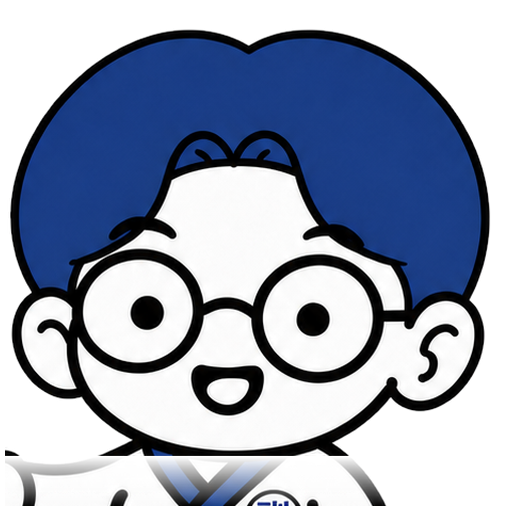
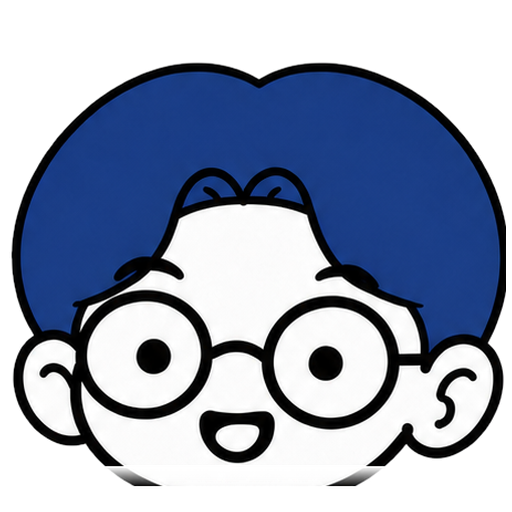
히든 검은용 확률 1/1,000 · 헤더용 마스코트 얼굴 크롭에서 도복·지팡이 제거(머리만)

diff --git a/tools/make_mascot.py b/tools/make_mascot.py
@@ -33,7 +33,7 @@ WHITE = (255, 255, 255)
 # 원본 1254×1254 기준 자리 (다른 크기 원본이면 비율로 맞춘다)
 BASE = 1254
 ART_BOX = (88, 88, 1172, 1172)      # 마스코트 + 주변 칠성구 전체
-FACE_BOX = (400, 292, 870, 762)     # 얼굴 (머리카락·안경·입) — 주변 성구·지팡이는 빼고
+FACE_BOX = (399, 280, 852, 698)     # 얼굴 (머리카락·안경·입·귀) — 목 아래 도복은 빼고
 
 
 def cutout(path: str) -> Image.Image:
@@ -115,11 +115,12 @@ def main() -> None:
     squared_art.alpha_composite(art_pad, ((side - art_pad.width) // 2, (side - art_pad.height) // 2))
     fit(squared_art, 800, 0.012).save(os.path.join(images, 'mascot-full.png'))
 
-    # 얼굴 — 머리 부분만. 아래쪽은 직선으로 잘린 티가 나지 않게 살짝 부드럽게 지운다
+    # 얼굴 — 머리 부분만. 목 아래 도복·왼손 지팡이는 아예 남기지 않고,
+    # 아래쪽은 턱선이 부드럽게 사라지게 살짝 흐려서 마무리한다
     face_box = scaled_box(FACE_BOX, full.width, full.height)
     part = character_only(full).crop(face_box)
     fp = np.array(part)
-    fade = max(1, int(part.height * 0.10))
+    fade = max(1, int(part.height * 0.045))
     for i in range(fade):
         row = part.height - fade + i
         fp[row, :, 3] = (fp[row, :, 3].astype(np.int32) * i // fade).astype(np.uint8)

diff --git a/README.md b/README.md
@@ -83,7 +83,7 @@ npm run preview    # 빌드 결과 확인
 | 파일 | 쓰이는 곳 |
 |---|---|
 | `public/images/mascot-full.png` (800×800, 투명) | 첫 화면(제목 옆), 타이머, 결과 화면 — **중앙 가르마·동그란 안경·訓 도복·근두운·주변 무지개 칠성구** 마스코트 |
-| `public/images/mascot-face.png` (512×512, 투명) | 관리자·학생 화면 상단의 작은 얼굴 (44px 자리) |
+| `public/images/mascot-face.png` (512×512, 투명) | 관리자·학생 화면 상단의 작은 얼굴 (44px 자리) — **머리(얼굴·귀)만** 나오게 잘라 둔 크롭(목 아래 도복·왼손 지팡이는 넣지 않는다, 턱선은 살짝 흐려 마무리) |
 | `public/images/hunsu-logo.png` (512×512, 투명) | 관리자 로그인 화면, 공유 미리보기 |
 | `public/images/hunsu-badge.png` (256×256, 원형) | **모든 화면 맨 아래에만** 작게 + "훈수학학원" |
 | `public/icons/icon-192.png`, `icon-512.png`, `icon-maskable-512.png`, `apple-touch-icon.png`(180×180) | 홈 화면 아이콘 |
@@ -162,10 +162,10 @@ python3 tools/make_color_dragons.py
   - **교환권은 학원에서 실제로 준 뒤 관리자가 사용 처리**한다(관리자 `실시간` 탭의 `🎟 교환권 지급 확인 · 사용 처리`). 학생 홈 위쪽에 `사탕교환권 · 1,000P · 10,000P` 장 수가 보인다.
   - **아이콘** — 일반용 7종은 무지개 신룡 그림의 색만 바꿔 **한 가족처럼 통일**했다(`public/dragonballs/dragon-red.png` ~ `dragon-purple.png`, `tools/make_color_dragons.py`). 무지개용은 기존 신룡 그림 그대로. 교환권 아이콘은 `ticket-candy.png` · `ticket-1000.png` · `ticket-10000.png`(같은 스크립트가 만든다).
   - **예전 데이터** — 만들어 둔 무지개 볼(`rainbow_ball_count`)은 같은 값(성구 7개)으로 만든 일반용 1마리로 옮기고 `rainbow_ball_count` 는 0 으로 정리한다(색은 학생 id 로 정해져 다시 실행해도 같다). 2026-11-22 이관에서 이지빈 학생의 무지개 볼 1개가 **노란용** 1마리가 됐다.
-- **🖤 히든 검은용 · 시크릿쿠폰 (2026-11-22, 학생 화면에는 설명하지 않는다)** — 일반용이 태어날 때와 무지개용이 만들어질 때 **1/10,000 확률로 검은용이 '보너스'로 함께** 나온다. 원래 나온 일반용·무지개용은 그대로 남으므로 학생이 손해 보지 않는다.
+- **🖤 히든 검은용 · 시크릿쿠폰 (2026-11-22, 학생 화면에는 설명하지 않는다)** — 일반용이 태어날 때와 무지개용이 만들어질 때 **1/1,000 확률로 검은용이 '보너스'로 함께** 나온다. 원래 나온 일반용·무지개용은 그대로 남으므로 학생이 손해 보지 않는다.
   - 검은용은 **가진 학생에게만** 홈의 일반용 칸 옆에 `검은용 N마리` 로 보이고, `검은용 → 시크릿쿠폰` 버튼이 생긴다(검은용 1마리 = 시크릿쿠폰 1장). 검은용이 없는 학생 화면에는 관련 문구·확률·아이콘이 전혀 나오지 않는다(테스트로 확인).
   - 아이콘 `public/dragonballs/dragon-black.png` — 다른 7색과 같은 그림에 아주 어두운 색만 입혀 한 가족처럼 보인다. 시크릿쿠폰 아이콘은 `ticket-secret.png`.
-  - 확률은 DB 함수 `roll_black_dragon()` 안에만 있고 **앱(anon)에는 실행 권한을 주지 않았다**. 학생·관리자 화면 어디에도 `1/10,000` 같은 안내를 쓰지 않는다.
+  - 확률은 DB 함수 `roll_black_dragon()` 안에만 있고 **앱(anon)에는 실행 권한을 주지 않았다**. 학생·관리자 화면 어디에도 `1/1,000` 같은 안내를 쓰지 않는다.
   - 관리자 `실시간` 탭의 교환권 칸에서 **시크릿쿠폰도 사탕·1,000P·10,000P 와 똑같이** 보유 확인·사용 처리(차감)할 수 있다(가진 학생에게만 칩이 보인다). 사용 기록도 `ticket_uses` 에 `secret` 으로 남는다.
   - DB: `students.black_dragon_count`, `students.secret_tickets`, `exchange_secret_ticket()`, `use_ticket(..., 'secret')`, `roll_black_dragon()`.
   - 검증: `supabase/verify-2026-11-22-secret-black-dragon.sql` — 40만 번 표본으로 확률을 확인하고, `set_config('sunogong.force_black','on')` 으로 검은용이 함께 나오는지·원래 용이 남는지·시크릿쿠폰 교환·사용까지 확인한 뒤 검증용 학생을 지운다.
